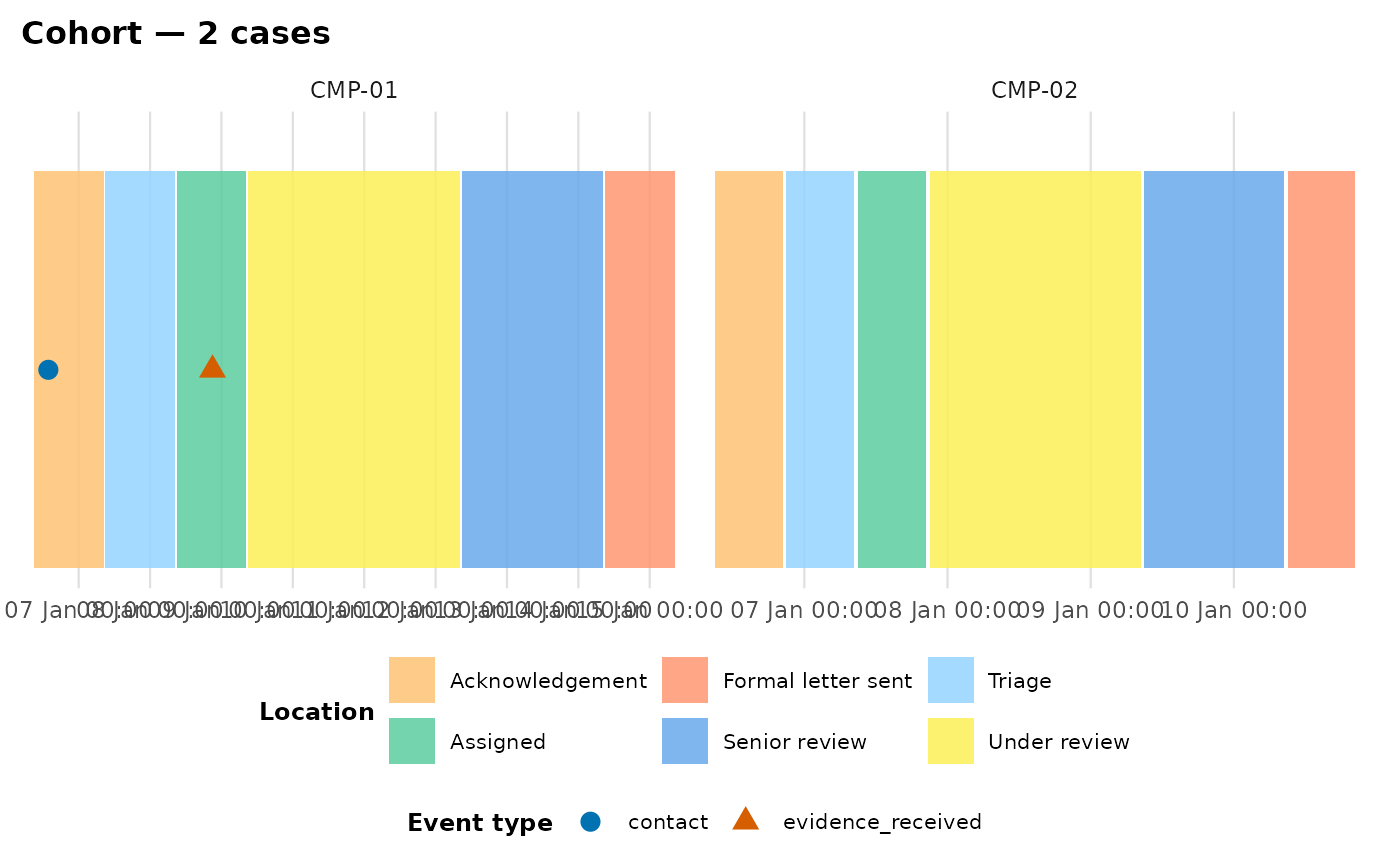
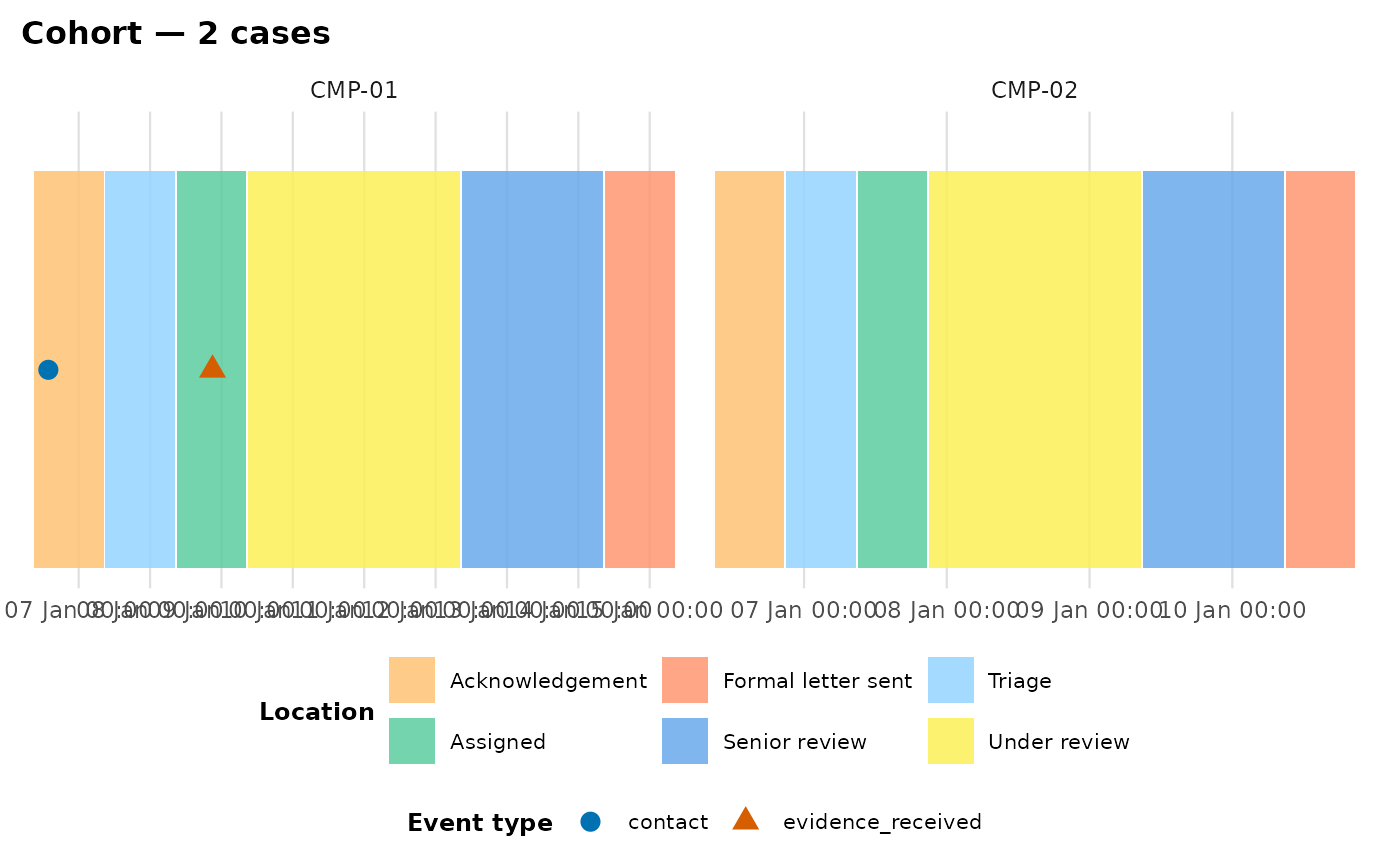
Deploying to gh-pages from @ JasperCain01/event-driven-visualisation@f6291ff797347a7d74b8539e82edf00b63b99ab9 🚀

Changed region(s): [[0.6143, 0.6859, 0.9214, 0.7171]]

diff --git a/news/index.html b/news/index.html
@@ -42,6 +42,23 @@
 <h2 class="pkg-version" data-toc-text="0.1.0" id="eventviz-010">eventviz 0.1.0<a class="anchor" aria-label="anchor" href="#eventviz-010"></a></h2>
 <p>Initial release. Turns the original single-file patient-journey timeline script into a general-purpose event-log visualisation package: location-band timelines, staircase stage diagrams for location-less linear processes, cohort facets, aggregate/statistical summaries, an interactive renderer, and three example datasets spanning healthcare, complaints, and support tickets.</p>
 <div class="section level3">
+<h3 id="post-implementation-review-fixes-0-1-0">Post-implementation review fixes<a class="anchor" aria-label="anchor" href="#post-implementation-review-fixes-0-1-0"></a></h3>
+<p>Four defects found in an executed review of the completed stages, plus packaging-layout corrections:</p>
+<ul><li>
+<code><a href="../reference/plot_journey_cohort.html">plot_journey_cohort()</a></code> (absolute-time mode) now sizes the cosmetic inter-box gap — and each box’s minimum render width — against each facet panel’s own time span instead of the whole cohort’s calendar span. Previously, a cohort whose cases were months apart rendered every box at many times its true width. Axis-break selection likewise now sees the widest single panel, giving per-panel time labels instead of one break sized for the whole calendar range. The <code>cohort-absolute</code> vdiffr baseline was re-rendered and visually re-approved for this change.</li>
+<li>
+<code><a href="../reference/plot_journey_cohort.html">plot_journey_cohort()</a></code> with <code>event_type_top_n</code>: the <code>"Other"</code> bucket now receives a colour from the event palette. Previously the cohort palette was built over the raw (unbucketed) event types, so <code>"Other"</code> silently fell back to the grey <code>na.value</code>.</li>
+<li>
+<code><a href="../reference/plot_journey_with_summary.html">plot_journey_with_summary()</a></code> now derives the bar-chart colours from the exact fill levels the timeline used (including any synthetic <code>"(pre-admission)"</code> box) and honours <code>palette_style</code>/<code>location_palette</code> passed through <code>...</code>. Previously the bars rebuilt their palette over a different level set, shifting every hue by one position whenever the two differed.</li>
+<li>
+<code><a href="../reference/plot_stage_ladder.html">plot_stage_ladder()</a></code> <code>stage_targets</code> now bands <strong>every</strong> visit to a stage a case re-enters, and draws the firebrick breach excess per visit. Previously only the first visit was banded and checked.</li>
+<li>
+<code><a href="../reference/plot_stage_ladder.html">plot_stage_ladder()</a></code> <code>stage_targets</code> now draws the breach excess for an <em>open</em> (end-inferred) stage too, whenever the dwell observed up to the last recorded event already exceeds the target — elapsed time is a lower bound, so a visible breach is proven. The excess is capped at the last observed instant, so a median/fixed-imputed end never inflates it. Previously an open stage never showed a breach at all.</li>
+<li>
+<code><a href="../reference/plot_journey_cohort.html">plot_journey_cohort()</a></code> now draws the <code>(ongoing)</code> open-spell marker in the panel of every case that never reaches a <code>terminal_activities</code> state (previously deferred), and gains a <code>tail_strategy</code> argument forwarded per case, for parity with <code><a href="../reference/plot_patient_journey.html">plot_patient_journey()</a></code>.</li>
+<li>Packaging: the three example datasets moved to <code>data/</code> as lazy-loaded <code>.rda</code> files built by <code>data-raw/</code> scripts (documented in <code>R/data.R</code>), as the implementation plan’s Stage 0 specified; <code>LICENSE</code> now uses CRAN’s two-line form with the full text in <code>LICENSE.md</code>; <code>.Rbuildignore</code> patterns are anchored; <code>DESCRIPTION</code> declares <code>ggplot2 (&gt;= 3.4.0)</code> (needed for <code>scale_linewidth_continuous()</code>) and <code>R (&gt;= 3.5)</code>.</li>
+</ul></div>
+<div class="section level3">
 <h3 id="stage--documentation--packaging-polish-0-1-0">Stage 10 — Documentation &amp; packaging polish<a class="anchor" aria-label="anchor" href="#stage--documentation--packaging-polish-0-1-0"></a></h3>
 <ul><li>Added a <code>pkgdown</code> site (<code>_pkgdown.yml</code> + a <code>pkgdown.yaml</code> GitHub Actions workflow deploying to GitHub Pages) and four vignettes: <code>getting-started</code> (the clinical walkthrough), <code>adapting-your-data</code> (schema autodetection + the wide-to-long pivot wrapper together, for bringing your own data), <code>linear-processes</code> (band vs. staircase for complaints/tickets, and <code>stage_targets</code>), and <code>cohort-analysis</code> (facets + aggregate/breach/transition summaries).</li>
 <li>Rewrote <code>README.Rmd</code> to lead with the general framing (“visualise any timestamped event log”), a quick-start on <code>example_journey</code>, then a “Not just healthcare” section showing <code>complaint_example</code> (staircase) and <code>support_ticket_example</code> (band + cohort).</li>

diff --git a/reference/plot_journey_cohort.html b/reference/plot_journey_cohort.html
@@ -69,6 +69,7 @@ across panels.</p>
 <span>  tz <span class="op">=</span> <span class="st">"UTC"</span>,</span>
 <span>  terminal_activities <span class="op">=</span> <span class="cn">NULL</span>,</span>
 <span>  exclude_categories <span class="op">=</span> <span class="cn">NULL</span>,</span>
+<span>  tail_strategy <span class="op">=</span> <span class="st">"last_event"</span>,</span>
 <span>  align_start <span class="op">=</span> <span class="cn">FALSE</span>,</span>
 <span>  ncol <span class="op">=</span> <span class="cn">NULL</span>,</span>
 <span>  max_cases <span class="op">=</span> <span class="fl">25L</span>,</span>
@@ -115,12 +116,19 @@ mappings, as in [plot_patient_journey()].</p></dd>
 
 
 <dt id="arg-terminal-activities">terminal_activities<a class="anchor" aria-label="anchor" href="#arg-terminal-activities"></a></dt>
-<dd><p>Character vector of terminal `activity` values.</p></dd>
+<dd><p>Character vector of terminal `activity` values.
+A case whose spell never reaches one renders with the `(ongoing)`
+open-spell marker in its own panel.</p></dd>
 
 
 <dt id="arg-exclude-categories">exclude_categories<a class="anchor" aria-label="anchor" href="#arg-exclude-categories"></a></dt>
 <dd><p>Character vector of `act_type` values to drop
 before plotting, or `NULL`.</p></dd>
+
+
+<dt id="arg-tail-strategy">tail_strategy<a class="anchor" aria-label="anchor" href="#arg-tail-strategy"></a></dt>
+<dd><p>Strategy for inferring each case's final box end
+time, as in <code><a href="plot_patient_journey.html">plot_patient_journey()</a></code>.</p></dd>
 
 
 <dt id="arg-align-start">align_start<a class="anchor" aria-label="anchor" href="#arg-align-start"></a></dt>

diff --git a/reference/plot_stage_ladder.html b/reference/plot_stage_ladder.html
@@ -124,8 +124,12 @@ mappings, as in [plot_patient_journey()].</p></dd>
 <dt id="arg-stage-targets">stage_targets<a class="anchor" aria-label="anchor" href="#arg-stage-targets"></a></dt>
 <dd><p>Named numeric vector mapping a stage name to its
 allowed dwell in hours, rendered as a light band from stage entry to
-entry + target; dwell beyond it is drawn in firebrick. `NULL` = no
-targets shown.</p></dd>
+entry + target; dwell beyond it is drawn in firebrick. When a case
+revisits a stage, every visit is banded against the same target
+(<code><a href="summarise_breach_rate.html">summarise_breach_rate()</a></code> instead sums a case's visits into one total
+dwell). An open (end-inferred) stage draws only its <em>proven</em> excess —
+dwell observed up to the last recorded event, never the imputed end.
+`NULL` = no targets shown.</p></dd>
 
 
 <dt id="arg-show-duration">show_duration<a class="anchor" aria-label="anchor" href="#arg-show-duration"></a></dt>

diff --git a/index.html b/index.html
@@ -127,9 +127,8 @@
   </main><aside class="col-md-3"><div class="license">
 <h2 data-toc-skip>License</h2>
 <ul class="list-unstyled">
-<li>
-<a href="https://opensource.org/licenses/mit-license.php" class="external-link">MIT</a> + file <a href="LICENSE-text.html">LICENSE</a>
-</li>
+<li><a href="LICENSE.html">Full license</a></li>
+<li><small><a href="https://opensource.org/licenses/mit-license.php" class="external-link">MIT</a> + file <a href="LICENSE-text.html">LICENSE</a></small></li>
 </ul>
 </div>
 

diff --git a/news/index.md b/news/index.md
@@ -9,6 +9,56 @@ linear processes, cohort facets, aggregate/statistical summaries, an
 interactive renderer, and three example datasets spanning healthcare,
 complaints, and support tickets.
 
+### Post-implementation review fixes
+
+Four defects found in an executed review of the completed stages, plus
+packaging-layout corrections:
+
+- [`plot_journey_cohort()`](https://jaspercain01.github.io/event-driven-visualisation/reference/plot_journey_cohort.md)
+  (absolute-time mode) now sizes the cosmetic inter-box gap — and each
+  box’s minimum render width — against each facet panel’s own time span
+  instead of the whole cohort’s calendar span. Previously, a cohort
+  whose cases were months apart rendered every box at many times its
+  true width. Axis-break selection likewise now sees the widest single
+  panel, giving per-panel time labels instead of one break sized for the
+  whole calendar range. The `cohort-absolute` vdiffr baseline was
+  re-rendered and visually re-approved for this change.
+- [`plot_journey_cohort()`](https://jaspercain01.github.io/event-driven-visualisation/reference/plot_journey_cohort.md)
+  with `event_type_top_n`: the `"Other"` bucket now receives a colour
+  from the event palette. Previously the cohort palette was built over
+  the raw (unbucketed) event types, so `"Other"` silently fell back to
+  the grey `na.value`.
+- [`plot_journey_with_summary()`](https://jaspercain01.github.io/event-driven-visualisation/reference/plot_journey_with_summary.md)
+  now derives the bar-chart colours from the exact fill levels the
+  timeline used (including any synthetic `"(pre-admission)"` box) and
+  honours `palette_style`/`location_palette` passed through `...`.
+  Previously the bars rebuilt their palette over a different level set,
+  shifting every hue by one position whenever the two differed.
+- [`plot_stage_ladder()`](https://jaspercain01.github.io/event-driven-visualisation/reference/plot_stage_ladder.md)
+  `stage_targets` now bands **every** visit to a stage a case re-enters,
+  and draws the firebrick breach excess per visit. Previously only the
+  first visit was banded and checked.
+- [`plot_stage_ladder()`](https://jaspercain01.github.io/event-driven-visualisation/reference/plot_stage_ladder.md)
+  `stage_targets` now draws the breach excess for an *open*
+  (end-inferred) stage too, whenever the dwell observed up to the last
+  recorded event already exceeds the target — elapsed time is a lower
+  bound, so a visible breach is proven. The excess is capped at the last
+  observed instant, so a median/fixed-imputed end never inflates it.
+  Previously an open stage never showed a breach at all.
+- [`plot_journey_cohort()`](https://jaspercain01.github.io/event-driven-visualisation/reference/plot_journey_cohort.md)
+  now draws the `(ongoing)` open-spell marker in the panel of every case
+  that never reaches a `terminal_activities` state (previously
+  deferred), and gains a `tail_strategy` argument forwarded per case,
+  for parity with
+  [`plot_patient_journey()`](https://jaspercain01.github.io/event-driven-visualisation/reference/plot_patient_journey.md).
+- Packaging: the three example datasets moved to `data/` as lazy-loaded
+  `.rda` files built by `data-raw/` scripts (documented in `R/data.R`),
+  as the implementation plan’s Stage 0 specified; `LICENSE` now uses
+  CRAN’s two-line form with the full text in `LICENSE.md`;
+  `.Rbuildignore` patterns are anchored; `DESCRIPTION` declares
+  `ggplot2 (>= 3.4.0)` (needed for `scale_linewidth_continuous()`) and
+  `R (>= 3.5)`.
+
 ### Stage 10 — Documentation & packaging polish
 
 - Added a `pkgdown` site (`_pkgdown.yml` + a `pkgdown.yaml` GitHub

diff --git a/reference/plot_journey_cohort.md b/reference/plot_journey_cohort.md
@@ -21,6 +21,7 @@ plot_journey_cohort(
   tz = "UTC",
   terminal_activities = NULL,
   exclude_categories = NULL,
+  tail_strategy = "last_event",
   align_start = FALSE,
   ncol = NULL,
   max_cases = 25L,
@@ -64,12 +65,19 @@ plot_journey_cohort(
 
 - terminal_activities:
 
-  Character vector of terminal \`activity\` values.
+  Character vector of terminal \`activity\` values. A case whose spell
+  never reaches one renders with the \`(ongoing)\` open-spell marker in
+  its own panel.
 
 - exclude_categories:
 
   Character vector of \`act_type\` values to drop before plotting, or
   \`NULL\`.
+
+- tail_strategy:
+
+  Strategy for inferring each case's final box end time, as in
+  [`plot_patient_journey()`](https://jaspercain01.github.io/event-driven-visualisation/reference/plot_patient_journey.md).
 
 - align_start:
 

diff --git a/LICENSE.md b/LICENSE.md
@@ -1,0 +1,9 @@
+# NA
+
+MIT License
+
+Copyright (c) 2026 Jasper Cain
+
+Permission is hereby granted, free of charge, to any person obtaining a
+copy of this software and associated documentation files (the
+“Software”), …

diff --git a/LICENSE-text.md b/LICENSE-text.md
@@ -1,8 +1,4 @@
 # License
 
-    MIT License
-
-    Copyright (c) 2026 Jasper Cain
-
-    Permission is hereby granted, free of charge, to any person obtaining a copy of this software and associated documentation files (the "Software"),
-     ...
+    YEAR: 2026
+    COPYRIGHT HOLDER: Jasper Cain

diff --git a/reference/plot_stage_ladder.md b/reference/plot_stage_ladder.md
@@ -70,7 +70,13 @@ plot_stage_ladder(
 
   Named numeric vector mapping a stage name to its allowed dwell in
   hours, rendered as a light band from stage entry to entry + target;
-  dwell beyond it is drawn in firebrick. \`NULL\` = no targets shown.
+  dwell beyond it is drawn in firebrick. When a case revisits a stage,
+  every visit is banded against the same target
+  ([`summarise_breach_rate()`](https://jaspercain01.github.io/event-driven-visualisation/reference/summarise_breach_rate.md)
+  instead sums a case's visits into one total dwell). An open
+  (end-inferred) stage draws only its *proven* excess — dwell observed
+  up to the last recorded event, never the imputed end. \`NULL\` = no
+  targets shown.
 
 - show_duration:
 